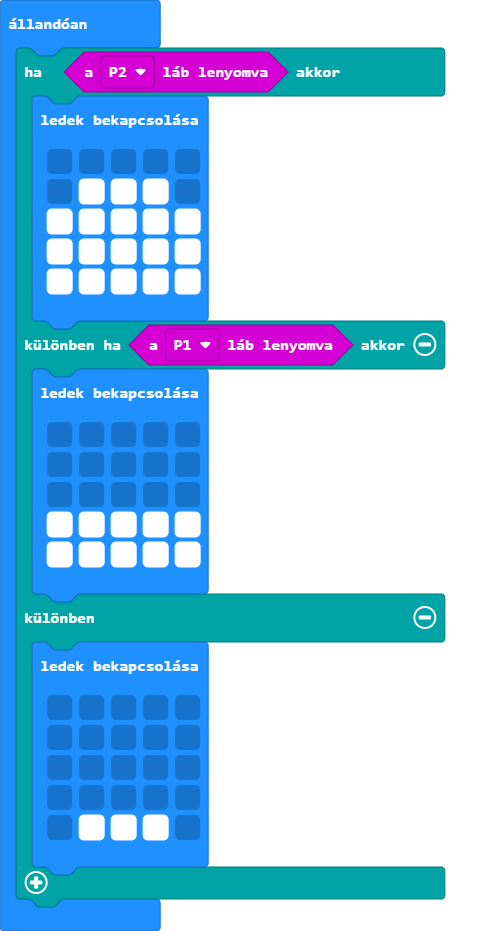
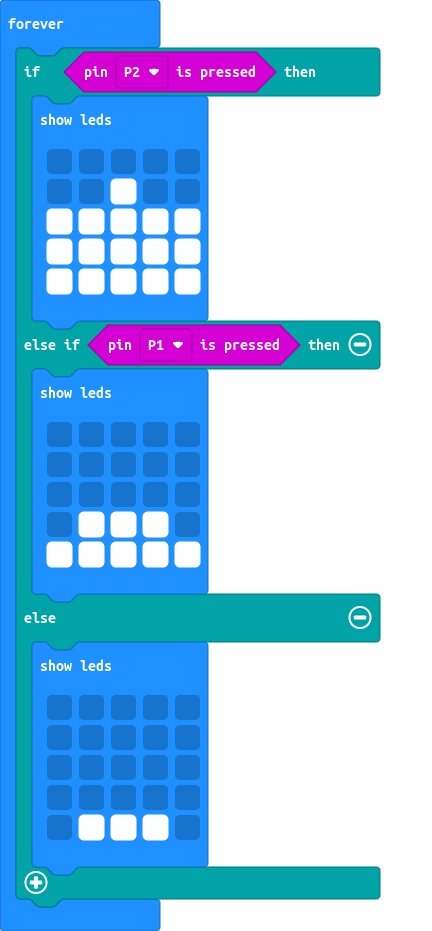
changed leds

diff --git a/main.ts b/main.ts
@@ -2,7 +2,7 @@ basic.forever(function () {
     if (input.pinIsPressed(TouchPin.P2)) {
         basic.showLeds(`
             . . . . .
-            . # # # .
+            . . # . .
             # # # # #
             # # # # #
             # # # # #
@@ -12,7 +12,7 @@ basic.forever(function () {
             . . . . .
             . . . . .
             . . . . .
-            # # # # #
+            . # # # .
             # # # # #
             `)
     } else {
